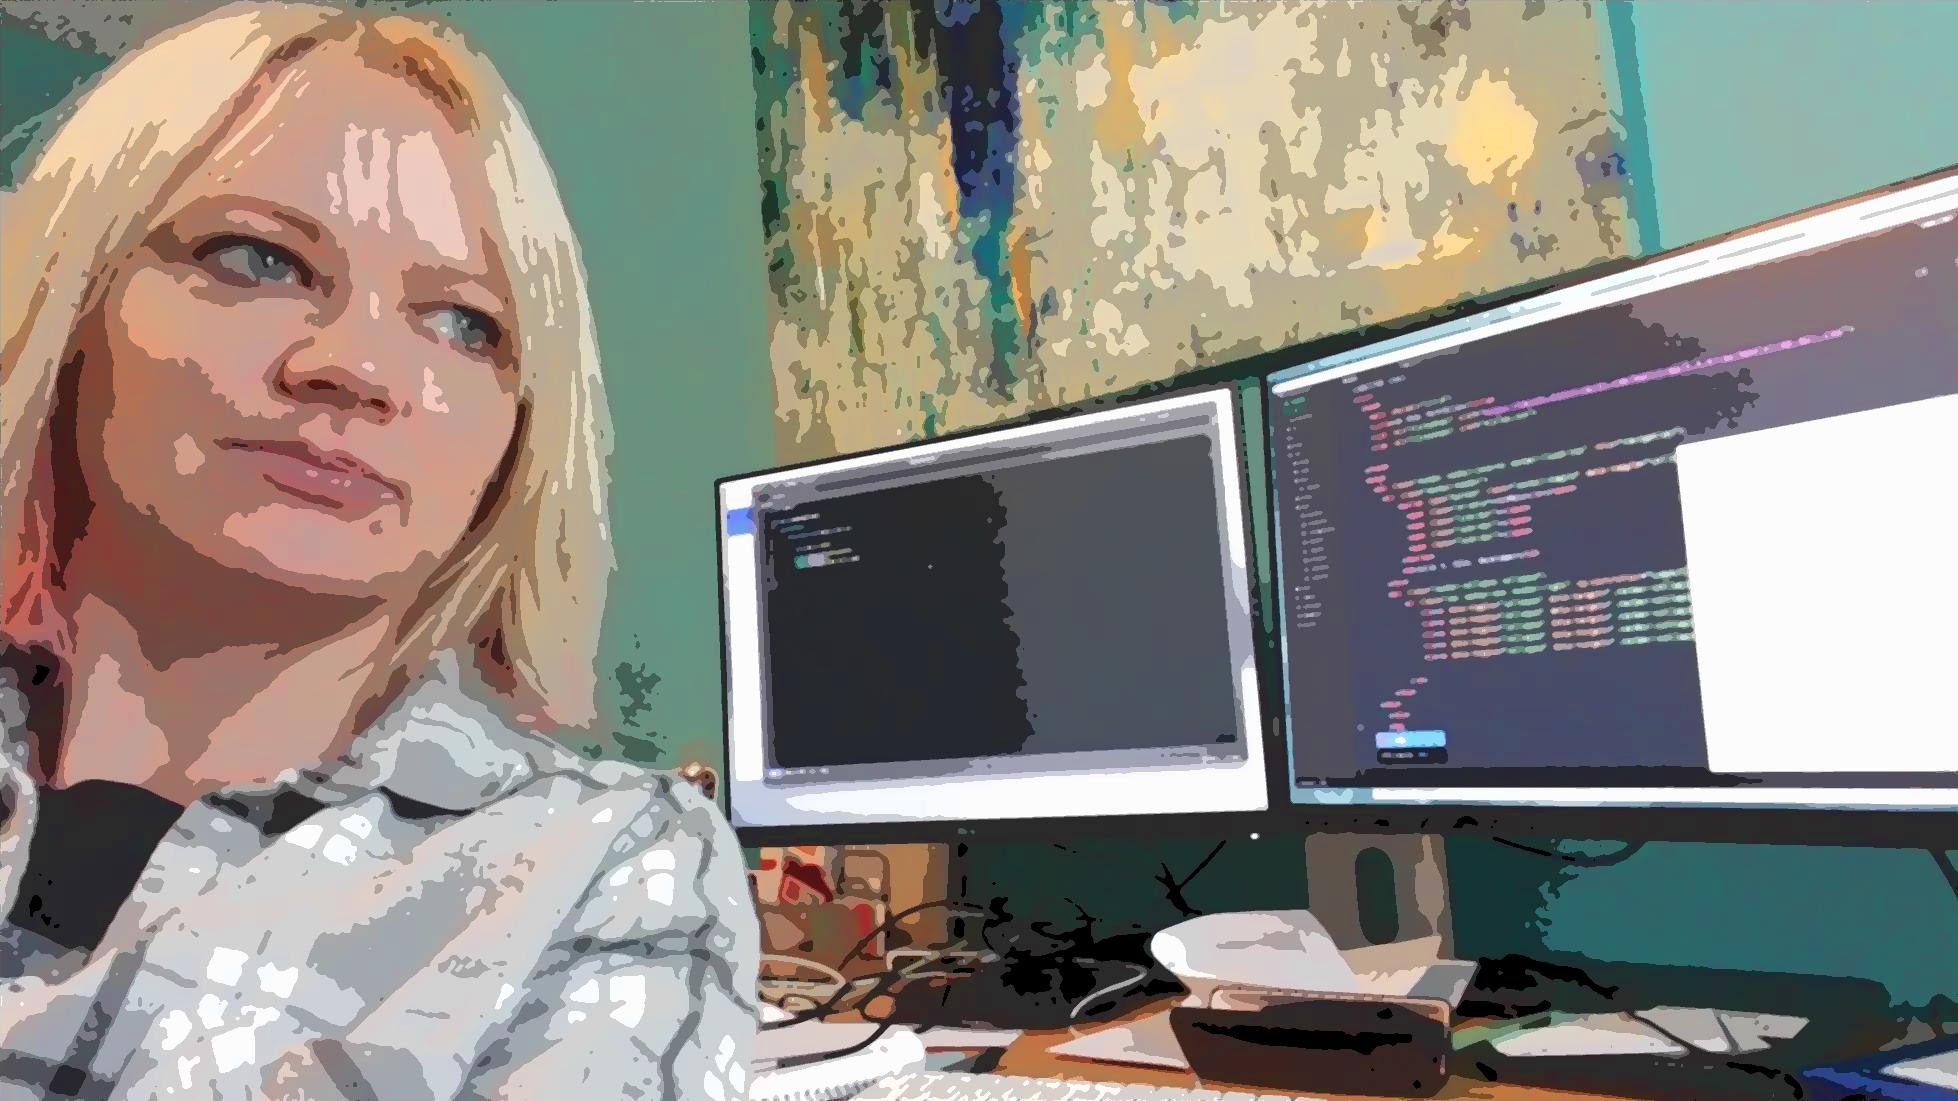
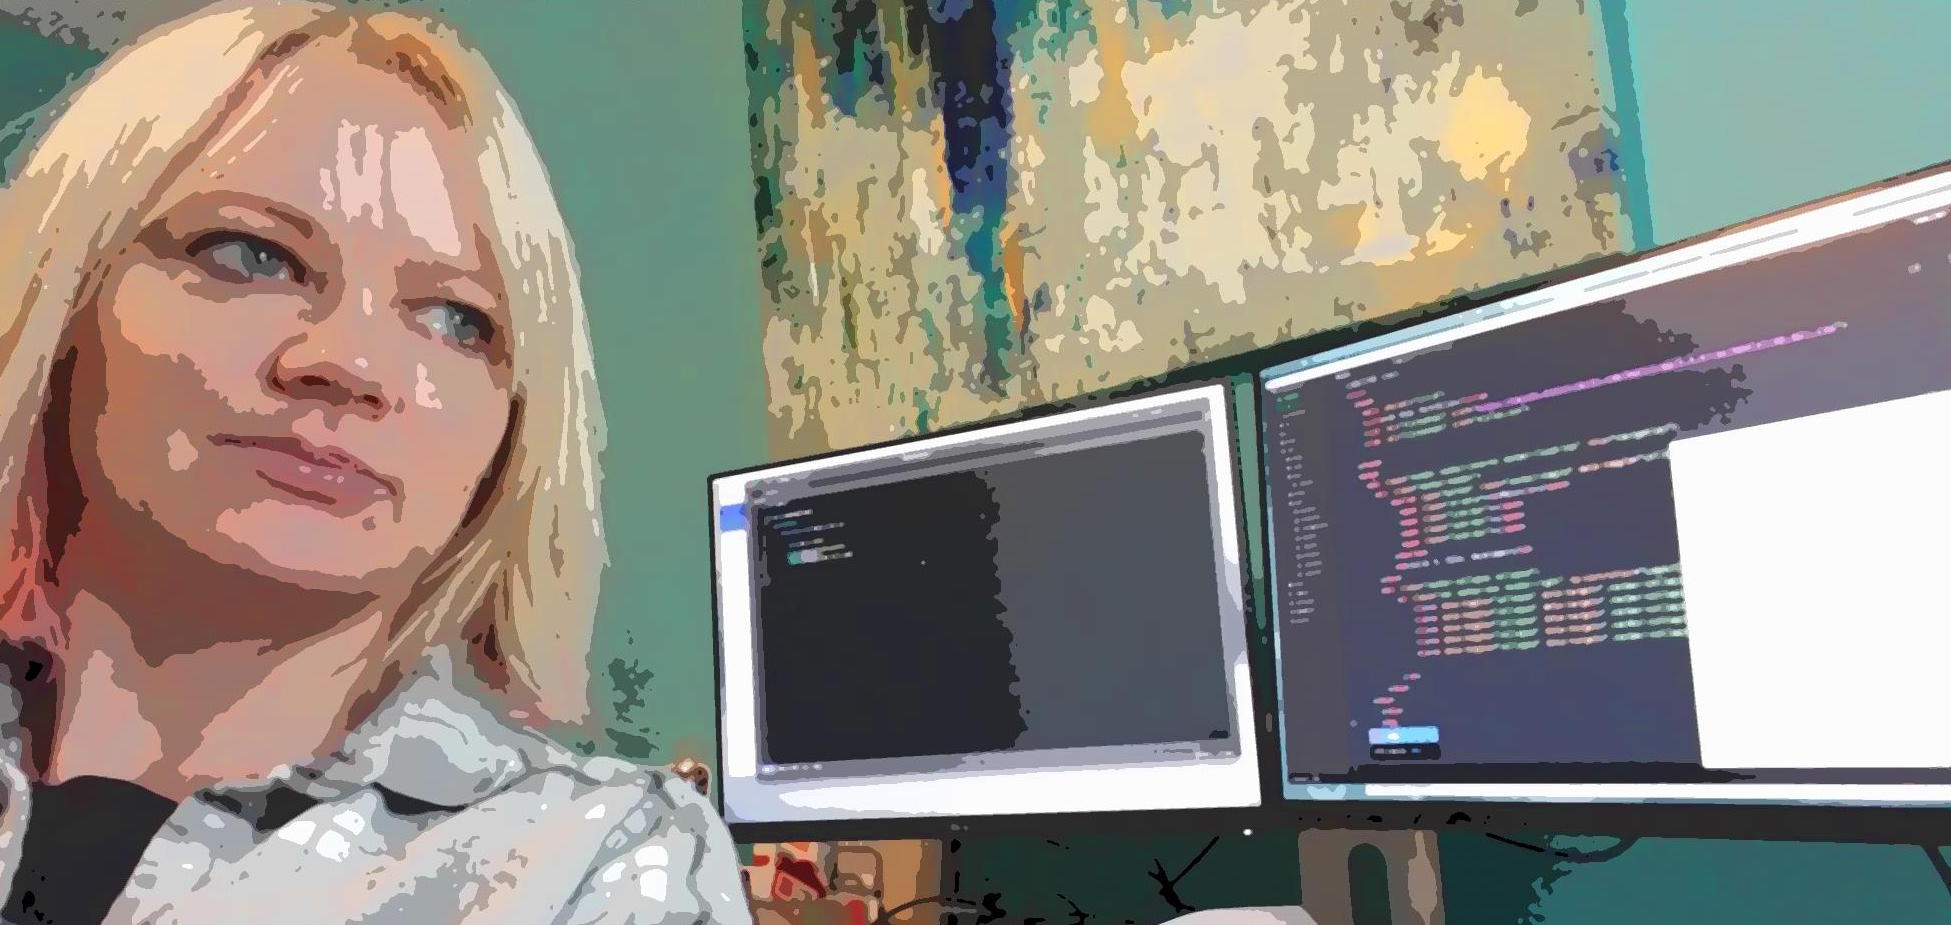
fix about image, fix margins

diff --git a/styles.css b/styles.css
@@ -15,11 +15,12 @@ body{
 }
 
 .julie{
-  width:1000px;
-  height:563px;
+  width:100%;
+  height:auto;
   margin: auto auto 50px auto;
   display: block;
   filter: brightness(75%);
+
 }
 .text-right{
   color: white;
@@ -61,7 +62,7 @@ body{
   margin: 0 50px 50px 50px;
 }
 .content{
-    margin: 15px 150px auto 50px;
+    margin: 15px 75px auto 50px;
 
 }
 .bar-image{
@@ -105,13 +106,7 @@ body{
   filter: brightness(75%);
 }
 
-.tech-li {
-  list-style-type: disc;
-  columns: 4;
-  -webkit-columns: 4;
-  -moz-columns: 4;
-  list-style-position: inside;
-}
+
 
 h4{
   margin-top: 15px;
@@ -169,6 +164,9 @@ h5{
 .flex3{
   margin-left: 75px;
   margin-bottom: 0;
+}
+.software{
+  margin-right: 10px;
 }
 
 @font-face {

diff --git a/index.html b/index.html
@@ -42,7 +42,7 @@
       <div class="space">
       </div>
       <div class="image">
-            <img class="julie img-responsive" src="images/julie-paint.jpg" />
+            <img class="julie" src="images/julie-paint.jpg" />
             <div class="col">
                 <div class="col-md-4 col-md-offset-4">
                     <p>ABOUT ME</p>
@@ -102,7 +102,6 @@
       <div class="space">
       </div>
         <div class="image">
-            <!-- <img class="bar-image" src="images/resume.jpg"> -->
             <div class="col">
                 <div class="col-md-4 col-md-offset-4">
                     <p>RESUME</p>
